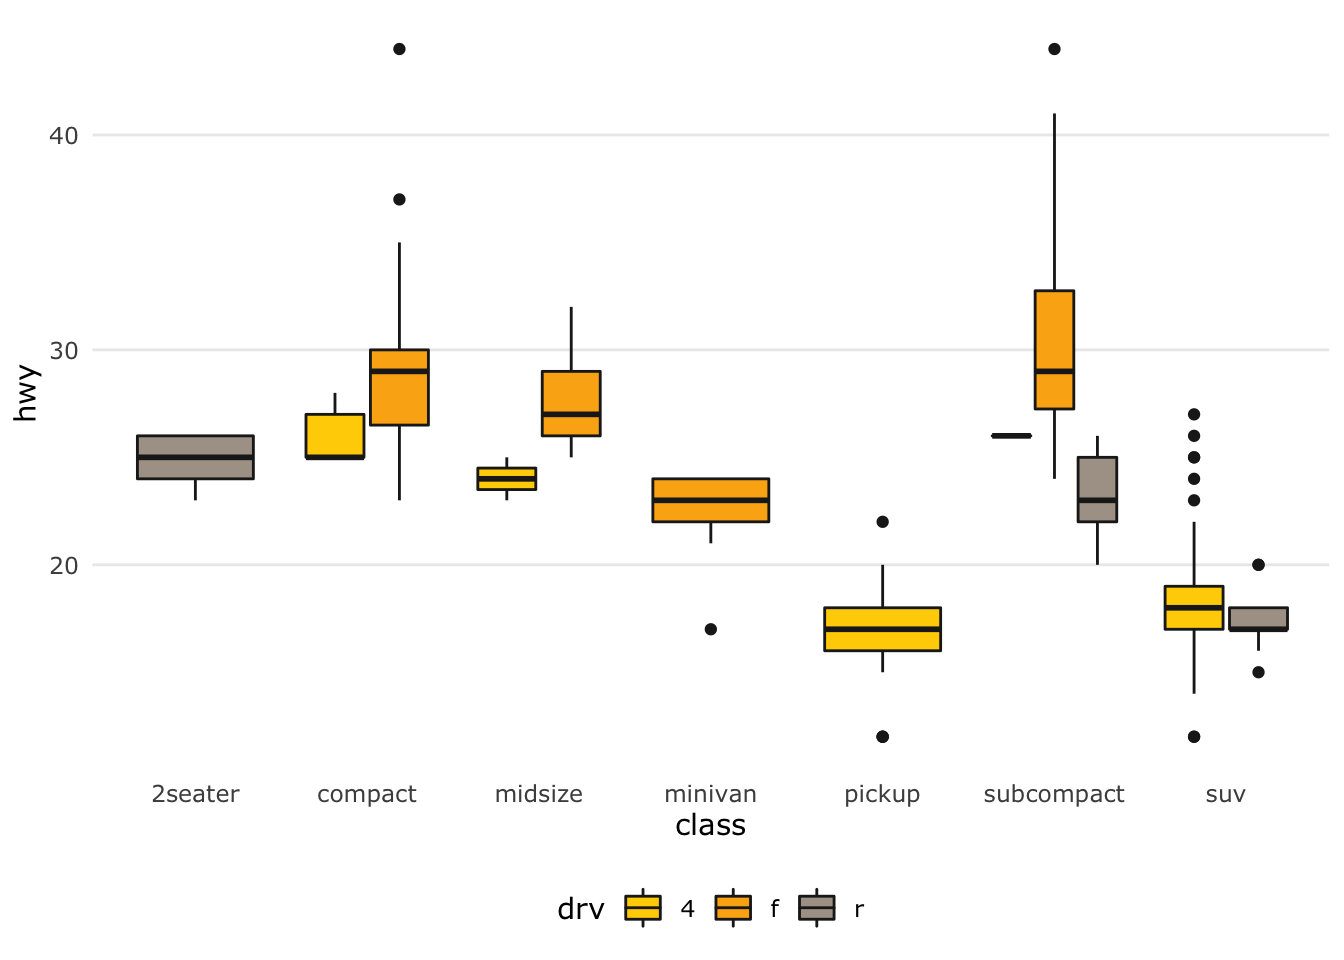
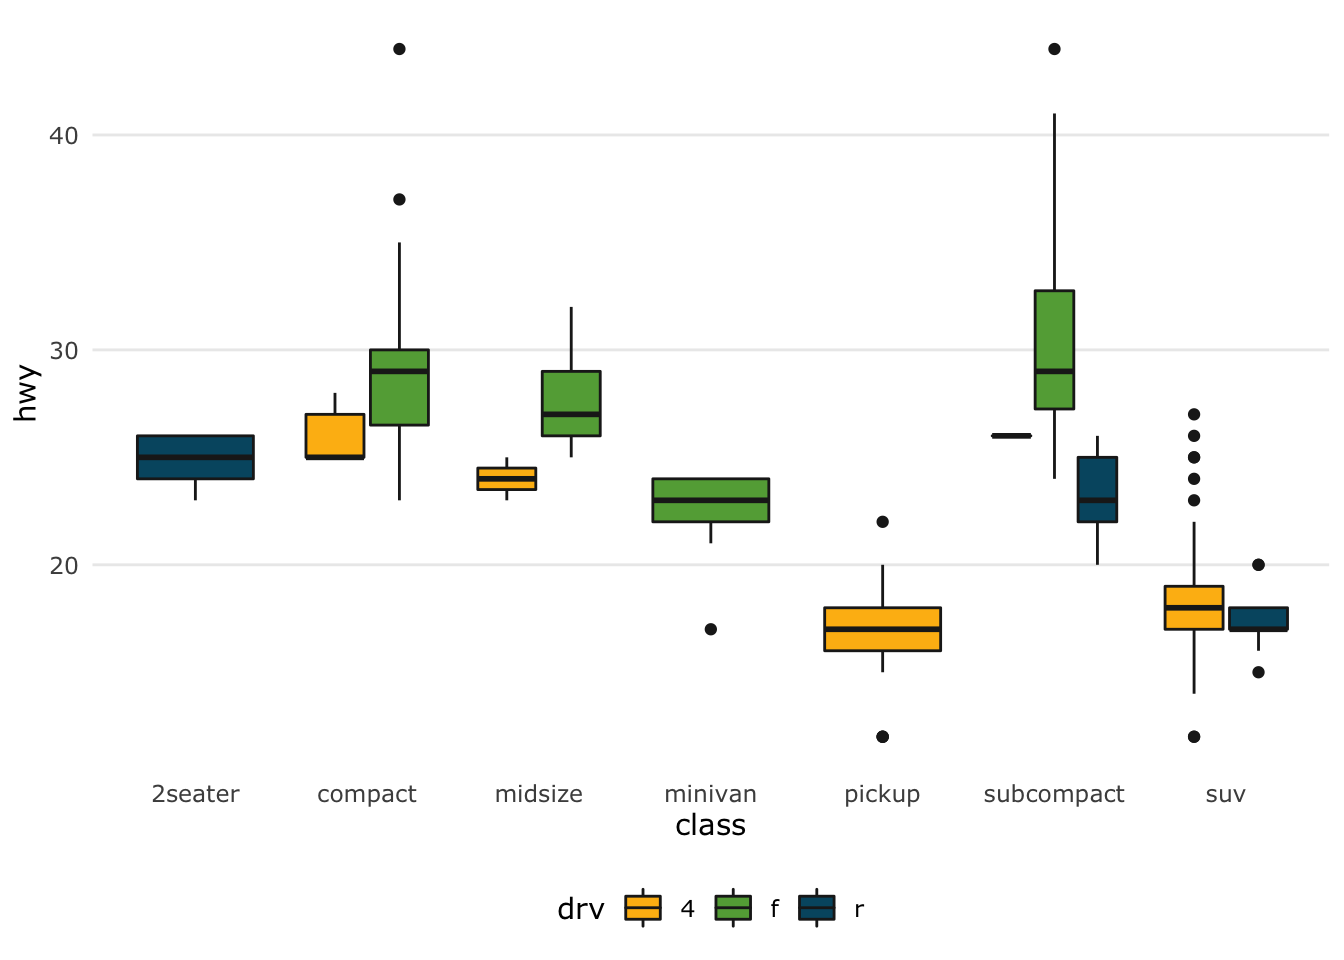
Built site for theme.usq: 1.0.1.9000@fb27342

diff --git a/articles/theme.usq.html b/articles/theme.usq.html
@@ -101,16 +101,20 @@
 <a href="#colours" class="anchor"></a>Colours</h2>
 <p>To view a list of named colours in this package, simply type:</p>
 <div class="sourceCode" id="cb2"><pre class="sourceCode r"><code class="sourceCode r"><span id="cb2-1"><a href="#cb2-1"></a>usq_colours</span>
-<span id="cb2-2"><a href="#cb2-2"></a><span class="co">#&gt;        usq yellow      usq charcoal  secondary yellow  secondary orange </span></span>
-<span id="cb2-3"><a href="#cb2-3"></a><span class="co">#&gt;         "#ffd100"         "#1e1e1e"         "#fdba12"         "#faa61a" </span></span>
-<span id="cb2-4"><a href="#cb2-4"></a><span class="co">#&gt;         cool gray    dark warm gray   light_warm gray    support orange </span></span>
-<span id="cb2-5"><a href="#cb2-5"></a><span class="co">#&gt;         "#76848f"         "#aca095"         "#efe9e5"         "#f58220" </span></span>
-<span id="cb2-6"><a href="#cb2-6"></a><span class="co">#&gt;       support red   support magenta     support green      support blue </span></span>
-<span id="cb2-7"><a href="#cb2-7"></a><span class="co">#&gt;         "#e63e30"         "#b63393"         "#63a945"         "#0090ba" </span></span>
-<span id="cb2-8"><a href="#cb2-8"></a><span class="co">#&gt;      support navy    support purple support turquiose        light grey </span></span>
-<span id="cb2-9"><a href="#cb2-9"></a><span class="co">#&gt;         "#003d77"         "#6a288a"         "#46c1be"         "#f6f6f6" </span></span>
-<span id="cb2-10"><a href="#cb2-10"></a><span class="co">#&gt;       medium grey         dark grey </span></span>
-<span id="cb2-11"><a href="#cb2-11"></a><span class="co">#&gt;         "#e5e5e5"         "#333333"</span></span></code></pre></div>
+<span id="cb2-2"><a href="#cb2-2"></a><span class="co">#&gt;              usq yellow            usq charcoal        secondary yellow </span></span>
+<span id="cb2-3"><a href="#cb2-3"></a><span class="co">#&gt;               "#ffd100"               "#1e1e1e"               "#fdba12" </span></span>
+<span id="cb2-4"><a href="#cb2-4"></a><span class="co">#&gt;        secondary orange               cool gray          dark warm gray </span></span>
+<span id="cb2-5"><a href="#cb2-5"></a><span class="co">#&gt;               "#faa61a"               "#76848f"               "#aca095" </span></span>
+<span id="cb2-6"><a href="#cb2-6"></a><span class="co">#&gt;         light_warm gray          support orange             support red </span></span>
+<span id="cb2-7"><a href="#cb2-7"></a><span class="co">#&gt;               "#efe9e5"               "#f58220"               "#e63e30" </span></span>
+<span id="cb2-8"><a href="#cb2-8"></a><span class="co">#&gt;         support magenta           support green            support blue </span></span>
+<span id="cb2-9"><a href="#cb2-9"></a><span class="co">#&gt;               "#b63393"               "#63a945"               "#0090ba" </span></span>
+<span id="cb2-10"><a href="#cb2-10"></a><span class="co">#&gt;            support navy          support purple       support turquiose </span></span>
+<span id="cb2-11"><a href="#cb2-11"></a><span class="co">#&gt;               "#003d77"               "#6a288a"               "#46c1be" </span></span>
+<span id="cb2-12"><a href="#cb2-12"></a><span class="co">#&gt;              light grey             medium grey               dark grey </span></span>
+<span id="cb2-13"><a href="#cb2-13"></a><span class="co">#&gt;               "#f6f6f6"               "#e5e5e5"               "#333333" </span></span>
+<span id="cb2-14"><a href="#cb2-14"></a><span class="co">#&gt;       unspecified brown unknown deep blue green </span></span>
+<span id="cb2-15"><a href="#cb2-15"></a><span class="co">#&gt;               "#a17401"               "#005670"</span></span></code></pre></div>
 <p>The resulting list shows the hexadecimal colour, e.g. “#ffd100”, and it’s name, “usq yellow”. The names may be used to specify the colours at any time when plotting.</p>
 </div>
 <div id="palettes" class="section level2">
@@ -119,40 +123,42 @@
 <p>Colours are grouped into convenient palettes as well. The palettes may be used when plotting. To see the palettes and colours included in each of them, simply type:</p>
 <div class="sourceCode" id="cb3"><pre class="sourceCode r"><code class="sourceCode r"><span id="cb3-1"><a href="#cb3-1"></a>usq_palettes</span>
 <span id="cb3-2"><a href="#cb3-2"></a><span class="co">#&gt; $primary</span></span>
-<span id="cb3-3"><a href="#cb3-3"></a><span class="co">#&gt;       usq yellow     usq charcoal secondary yellow secondary orange </span></span>
-<span id="cb3-4"><a href="#cb3-4"></a><span class="co">#&gt;        "#ffd100"        "#1e1e1e"        "#fdba12"        "#faa61a" </span></span>
-<span id="cb3-5"><a href="#cb3-5"></a><span class="co">#&gt;        cool gray   dark warm gray </span></span>
-<span id="cb3-6"><a href="#cb3-6"></a><span class="co">#&gt;        "#76848f"        "#aca095" </span></span>
-<span id="cb3-7"><a href="#cb3-7"></a><span class="co">#&gt; </span></span>
-<span id="cb3-8"><a href="#cb3-8"></a><span class="co">#&gt; $`primary dark`</span></span>
-<span id="cb3-9"><a href="#cb3-9"></a><span class="co">#&gt;   usq charcoal      cool gray dark warm gray </span></span>
-<span id="cb3-10"><a href="#cb3-10"></a><span class="co">#&gt;      "#1e1e1e"      "#76848f"      "#aca095" </span></span>
-<span id="cb3-11"><a href="#cb3-11"></a><span class="co">#&gt; </span></span>
-<span id="cb3-12"><a href="#cb3-12"></a><span class="co">#&gt; $`primary light`</span></span>
-<span id="cb3-13"><a href="#cb3-13"></a><span class="co">#&gt;       usq yellow secondary yellow secondary orange </span></span>
-<span id="cb3-14"><a href="#cb3-14"></a><span class="co">#&gt;        "#ffd100"        "#fdba12"        "#faa61a" </span></span>
-<span id="cb3-15"><a href="#cb3-15"></a><span class="co">#&gt; </span></span>
-<span id="cb3-16"><a href="#cb3-16"></a><span class="co">#&gt; $cool</span></span>
-<span id="cb3-17"><a href="#cb3-17"></a><span class="co">#&gt;      support navy      support blue support turquiose </span></span>
-<span id="cb3-18"><a href="#cb3-18"></a><span class="co">#&gt;         "#003d77"         "#0090ba"         "#46c1be" </span></span>
-<span id="cb3-19"><a href="#cb3-19"></a><span class="co">#&gt; </span></span>
-<span id="cb3-20"><a href="#cb3-20"></a><span class="co">#&gt; $warm</span></span>
-<span id="cb3-21"><a href="#cb3-21"></a><span class="co">#&gt;      support red   support orange secondary orange secondary yellow </span></span>
-<span id="cb3-22"><a href="#cb3-22"></a><span class="co">#&gt;        "#e63e30"        "#f58220"        "#faa61a"        "#fdba12" </span></span>
-<span id="cb3-23"><a href="#cb3-23"></a><span class="co">#&gt;       usq yellow </span></span>
-<span id="cb3-24"><a href="#cb3-24"></a><span class="co">#&gt;        "#ffd100" </span></span>
-<span id="cb3-25"><a href="#cb3-25"></a><span class="co">#&gt; </span></span>
-<span id="cb3-26"><a href="#cb3-26"></a><span class="co">#&gt; $bright</span></span>
-<span id="cb3-27"><a href="#cb3-27"></a><span class="co">#&gt;      support navy      support blue support turquiose     support green </span></span>
-<span id="cb3-28"><a href="#cb3-28"></a><span class="co">#&gt;         "#003d77"         "#0090ba"         "#46c1be"         "#63a945" </span></span>
-<span id="cb3-29"><a href="#cb3-29"></a><span class="co">#&gt;        usq yellow  secondary yellow  secondary orange    support orange </span></span>
-<span id="cb3-30"><a href="#cb3-30"></a><span class="co">#&gt;         "#ffd100"         "#fdba12"         "#faa61a"         "#f58220" </span></span>
-<span id="cb3-31"><a href="#cb3-31"></a><span class="co">#&gt;       support red   support magenta    support purple </span></span>
-<span id="cb3-32"><a href="#cb3-32"></a><span class="co">#&gt;         "#e63e30"         "#b63393"         "#6a288a" </span></span>
-<span id="cb3-33"><a href="#cb3-33"></a><span class="co">#&gt; </span></span>
-<span id="cb3-34"><a href="#cb3-34"></a><span class="co">#&gt; $digital</span></span>
-<span id="cb3-35"><a href="#cb3-35"></a><span class="co">#&gt;  light grey medium grey   dark grey </span></span>
-<span id="cb3-36"><a href="#cb3-36"></a><span class="co">#&gt;   "#f6f6f6"   "#e5e5e5"   "#333333"</span></span></code></pre></div>
+<span id="cb3-3"><a href="#cb3-3"></a><span class="co">#&gt;        secondary yellow         support magenta       support turquiose </span></span>
+<span id="cb3-4"><a href="#cb3-4"></a><span class="co">#&gt;               "#fdba12"               "#b63393"               "#46c1be" </span></span>
+<span id="cb3-5"><a href="#cb3-5"></a><span class="co">#&gt;             support red           support green            support navy </span></span>
+<span id="cb3-6"><a href="#cb3-6"></a><span class="co">#&gt;               "#e63e30"               "#63a945"               "#003d77" </span></span>
+<span id="cb3-7"><a href="#cb3-7"></a><span class="co">#&gt;       unspecified brown          support purple unknown deep blue green </span></span>
+<span id="cb3-8"><a href="#cb3-8"></a><span class="co">#&gt;               "#a17401"               "#6a288a"               "#005670" </span></span>
+<span id="cb3-9"><a href="#cb3-9"></a><span class="co">#&gt; </span></span>
+<span id="cb3-10"><a href="#cb3-10"></a><span class="co">#&gt; $`primary dark`</span></span>
+<span id="cb3-11"><a href="#cb3-11"></a><span class="co">#&gt;   usq charcoal      cool gray dark warm gray </span></span>
+<span id="cb3-12"><a href="#cb3-12"></a><span class="co">#&gt;      "#1e1e1e"      "#76848f"      "#aca095" </span></span>
+<span id="cb3-13"><a href="#cb3-13"></a><span class="co">#&gt; </span></span>
+<span id="cb3-14"><a href="#cb3-14"></a><span class="co">#&gt; $`primary light`</span></span>
+<span id="cb3-15"><a href="#cb3-15"></a><span class="co">#&gt;       usq yellow secondary yellow secondary orange </span></span>
+<span id="cb3-16"><a href="#cb3-16"></a><span class="co">#&gt;        "#ffd100"        "#fdba12"        "#faa61a" </span></span>
+<span id="cb3-17"><a href="#cb3-17"></a><span class="co">#&gt; </span></span>
+<span id="cb3-18"><a href="#cb3-18"></a><span class="co">#&gt; $cool</span></span>
+<span id="cb3-19"><a href="#cb3-19"></a><span class="co">#&gt;      support navy      support blue support turquiose </span></span>
+<span id="cb3-20"><a href="#cb3-20"></a><span class="co">#&gt;         "#003d77"         "#0090ba"         "#46c1be" </span></span>
+<span id="cb3-21"><a href="#cb3-21"></a><span class="co">#&gt; </span></span>
+<span id="cb3-22"><a href="#cb3-22"></a><span class="co">#&gt; $warm</span></span>
+<span id="cb3-23"><a href="#cb3-23"></a><span class="co">#&gt;      support red   support orange secondary orange secondary yellow </span></span>
+<span id="cb3-24"><a href="#cb3-24"></a><span class="co">#&gt;        "#e63e30"        "#f58220"        "#faa61a"        "#fdba12" </span></span>
+<span id="cb3-25"><a href="#cb3-25"></a><span class="co">#&gt;       usq yellow </span></span>
+<span id="cb3-26"><a href="#cb3-26"></a><span class="co">#&gt;        "#ffd100" </span></span>
+<span id="cb3-27"><a href="#cb3-27"></a><span class="co">#&gt; </span></span>
+<span id="cb3-28"><a href="#cb3-28"></a><span class="co">#&gt; $bright</span></span>
+<span id="cb3-29"><a href="#cb3-29"></a><span class="co">#&gt;      support navy      support blue support turquiose     support green </span></span>
+<span id="cb3-30"><a href="#cb3-30"></a><span class="co">#&gt;         "#003d77"         "#0090ba"         "#46c1be"         "#63a945" </span></span>
+<span id="cb3-31"><a href="#cb3-31"></a><span class="co">#&gt;        usq yellow  secondary yellow  secondary orange    support orange </span></span>
+<span id="cb3-32"><a href="#cb3-32"></a><span class="co">#&gt;         "#ffd100"         "#fdba12"         "#faa61a"         "#f58220" </span></span>
+<span id="cb3-33"><a href="#cb3-33"></a><span class="co">#&gt;       support red   support magenta    support purple </span></span>
+<span id="cb3-34"><a href="#cb3-34"></a><span class="co">#&gt;         "#e63e30"         "#b63393"         "#6a288a" </span></span>
+<span id="cb3-35"><a href="#cb3-35"></a><span class="co">#&gt; </span></span>
+<span id="cb3-36"><a href="#cb3-36"></a><span class="co">#&gt; $digital</span></span>
+<span id="cb3-37"><a href="#cb3-37"></a><span class="co">#&gt;  light grey medium grey   dark grey </span></span>
+<span id="cb3-38"><a href="#cb3-38"></a><span class="co">#&gt;   "#f6f6f6"   "#e5e5e5"   "#333333"</span></span></code></pre></div>
 </div>
 <div id="examples" class="section level2">
 <h2 class="hasAnchor">

diff --git a/reference/plot_usq.html b/reference/plot_usq.html
@@ -121,8 +121,18 @@ guidelines that uses (hopefully) sensible defaults." />
 guidelines that uses (hopefully) sensible defaults.</p>
     </div>
 
-    <pre class="usage"><span class='fu'>plot_usq</span>(<span class='no'>x</span>, <span class='kw'>y</span> <span class='kw'>=</span> <span class='kw'>NULL</span>, <span class='kw'>main</span> <span class='kw'>=</span> <span class='st'>""</span>, <span class='kw'>sub</span> <span class='kw'>=</span> <span class='st'>""</span>, <span class='kw'>xlab</span> <span class='kw'>=</span> <span class='st'>""</span>, <span class='kw'>ylab</span> <span class='kw'>=</span> <span class='st'>""</span>,
-  <span class='kw'>xlim</span> <span class='kw'>=</span> <span class='kw'>NULL</span>, <span class='kw'>ylim</span> <span class='kw'>=</span> <span class='kw'>NULL</span>, <span class='kw'>col</span> <span class='kw'>=</span> <span class='st'>"usq charcoal"</span>, <span class='no'>...</span>)</pre>
+    <pre class="usage"><span class='fu'>plot_usq</span>(
+  <span class='no'>x</span>,
+  <span class='kw'>y</span> <span class='kw'>=</span> <span class='kw'>NULL</span>,
+  <span class='kw'>main</span> <span class='kw'>=</span> <span class='st'>""</span>,
+  <span class='kw'>sub</span> <span class='kw'>=</span> <span class='st'>""</span>,
+  <span class='kw'>xlab</span> <span class='kw'>=</span> <span class='st'>""</span>,
+  <span class='kw'>ylab</span> <span class='kw'>=</span> <span class='st'>""</span>,
+  <span class='kw'>xlim</span> <span class='kw'>=</span> <span class='kw'>NULL</span>,
+  <span class='kw'>ylim</span> <span class='kw'>=</span> <span class='kw'>NULL</span>,
+  <span class='kw'>col</span> <span class='kw'>=</span> <span class='st'>"usq charcoal"</span>,
+  <span class='no'>...</span>
+)</pre>
 
     <h2 class="hasAnchor" id="arguments"><a class="anchor" href="#arguments"></a>Arguments</h2>
     <table class="ref-arguments">

diff --git a/reference/hist_usq.html b/reference/hist_usq.html
@@ -121,8 +121,16 @@ guidelines that uses (hopefully) sensible defaults." />
 guidelines that uses (hopefully) sensible defaults.</p>
     </div>
 
-    <pre class="usage"><span class='fu'>hist_usq</span>(<span class='no'>x</span>, <span class='kw'>main</span> <span class='kw'>=</span> <span class='st'>""</span>, <span class='kw'>sub</span> <span class='kw'>=</span> <span class='st'>""</span>, <span class='kw'>xlab</span> <span class='kw'>=</span> <span class='st'>""</span>, <span class='kw'>ylab</span> <span class='kw'>=</span> <span class='st'>"Count"</span>,
-  <span class='kw'>breaks</span> <span class='kw'>=</span> <span class='st'>"pretty"</span>, <span class='kw'>col</span> <span class='kw'>=</span> <span class='st'>"usq charcoal"</span>, <span class='no'>...</span>)</pre>
+    <pre class="usage"><span class='fu'>hist_usq</span>(
+  <span class='no'>x</span>,
+  <span class='kw'>main</span> <span class='kw'>=</span> <span class='st'>""</span>,
+  <span class='kw'>sub</span> <span class='kw'>=</span> <span class='st'>""</span>,
+  <span class='kw'>xlab</span> <span class='kw'>=</span> <span class='st'>""</span>,
+  <span class='kw'>ylab</span> <span class='kw'>=</span> <span class='st'>"Count"</span>,
+  <span class='kw'>breaks</span> <span class='kw'>=</span> <span class='st'>"pretty"</span>,
+  <span class='kw'>col</span> <span class='kw'>=</span> <span class='st'>"usq charcoal"</span>,
+  <span class='no'>...</span>
+)</pre>
 
     <h2 class="hasAnchor" id="arguments"><a class="anchor" href="#arguments"></a>Arguments</h2>
     <table class="ref-arguments">

diff --git a/reference/boxplot_usq.html b/reference/boxplot_usq.html
@@ -121,8 +121,15 @@ guidelines that uses (hopefully) sensible defaults." />
 guidelines that uses (hopefully) sensible defaults.</p>
     </div>
 
-    <pre class="usage"><span class='fu'>boxplot_usq</span>(<span class='no'>x</span>, <span class='kw'>main</span> <span class='kw'>=</span> <span class='st'>""</span>, <span class='kw'>sub</span> <span class='kw'>=</span> <span class='st'>""</span>, <span class='kw'>xlab</span> <span class='kw'>=</span> <span class='st'>""</span>, <span class='kw'>ylab</span> <span class='kw'>=</span> <span class='st'>""</span>,
-  <span class='kw'>col</span> <span class='kw'>=</span> <span class='st'>"usq charcoal"</span>, <span class='no'>...</span>)</pre>
+    <pre class="usage"><span class='fu'>boxplot_usq</span>(
+  <span class='no'>x</span>,
+  <span class='kw'>main</span> <span class='kw'>=</span> <span class='st'>""</span>,
+  <span class='kw'>sub</span> <span class='kw'>=</span> <span class='st'>""</span>,
+  <span class='kw'>xlab</span> <span class='kw'>=</span> <span class='st'>""</span>,
+  <span class='kw'>ylab</span> <span class='kw'>=</span> <span class='st'>""</span>,
+  <span class='kw'>col</span> <span class='kw'>=</span> <span class='st'>"usq charcoal"</span>,
+  <span class='no'>...</span>
+)</pre>
 
     <h2 class="hasAnchor" id="arguments"><a class="anchor" href="#arguments"></a>Arguments</h2>
     <table class="ref-arguments">

diff --git a/reference/usq_palettes.html b/reference/usq_palettes.html
@@ -129,10 +129,12 @@ colour palette for use in plotting.</p>
 
     <h2 class="hasAnchor" id="examples"><a class="anchor" href="#examples"></a>Examples</h2>
     <pre class="examples"><div class='input'><span class='no'>usq_palettes</span></div><div class='output co'>#&gt; $primary
-#&gt;       usq yellow     usq charcoal secondary yellow secondary orange 
-#&gt;        "#ffd100"        "#1e1e1e"        "#fdba12"        "#faa61a" 
-#&gt;        cool gray   dark warm gray 
-#&gt;        "#76848f"        "#aca095" 
+#&gt;        secondary yellow         support magenta       support turquiose 
+#&gt;               "#fdba12"               "#b63393"               "#46c1be" 
+#&gt;             support red           support green            support navy 
+#&gt;               "#e63e30"               "#63a945"               "#003d77" 
+#&gt;       unspecified brown          support purple unknown deep blue green 
+#&gt;               "#a17401"               "#6a288a"               "#005670" 
 #&gt; 
 #&gt; $`primary dark`
 #&gt;   usq charcoal      cool gray dark warm gray 

diff --git a/reference/scale_colour_usq.html b/reference/scale_colour_usq.html
@@ -119,8 +119,7 @@
     <p>ggplot2 Colour Scale Constructor for USQ Colours</p>
     </div>
 
-    <pre class="usage"><span class='fu'>scale_colour_usq</span>(<span class='kw'>palette</span> <span class='kw'>=</span> <span class='st'>"primary"</span>, <span class='kw'>discrete</span> <span class='kw'>=</span> <span class='fl'>TRUE</span>,
-  <span class='kw'>reverse</span> <span class='kw'>=</span> <span class='fl'>FALSE</span>, <span class='no'>...</span>)</pre>
+    <pre class="usage"><span class='fu'>scale_colour_usq</span>(<span class='kw'>palette</span> <span class='kw'>=</span> <span class='st'>"primary"</span>, <span class='kw'>discrete</span> <span class='kw'>=</span> <span class='fl'>TRUE</span>, <span class='kw'>reverse</span> <span class='kw'>=</span> <span class='fl'>FALSE</span>, <span class='no'>...</span>)</pre>
 
     <h2 class="hasAnchor" id="arguments"><a class="anchor" href="#arguments"></a>Arguments</h2>
     <table class="ref-arguments">

diff --git a/reference/scale_fill_usq.html b/reference/scale_fill_usq.html
@@ -119,8 +119,7 @@
     <p>ggplot2 Fill Scale Constructor for USQ Colours</p>
     </div>
 
-    <pre class="usage"><span class='fu'>scale_fill_usq</span>(<span class='kw'>palette</span> <span class='kw'>=</span> <span class='st'>"primary"</span>, <span class='kw'>discrete</span> <span class='kw'>=</span> <span class='fl'>TRUE</span>, <span class='kw'>reverse</span> <span class='kw'>=</span> <span class='fl'>FALSE</span>,
-  <span class='no'>...</span>)</pre>
+    <pre class="usage"><span class='fu'>scale_fill_usq</span>(<span class='kw'>palette</span> <span class='kw'>=</span> <span class='st'>"primary"</span>, <span class='kw'>discrete</span> <span class='kw'>=</span> <span class='fl'>TRUE</span>, <span class='kw'>reverse</span> <span class='kw'>=</span> <span class='fl'>FALSE</span>, <span class='no'>...</span>)</pre>
 
     <h2 class="hasAnchor" id="arguments"><a class="anchor" href="#arguments"></a>Arguments</h2>
     <table class="ref-arguments">

diff --git a/reference/theme.usq-package.html b/reference/theme.usq-package.html
@@ -36,7 +36,6 @@
 
 
 <meta property="og:title" content="Provides USQ Style Typography, Colours and Themes for Plots from R — theme.usq-package" />
-<meta property="og:description" content="Provides USQ Style Typography, Colours and Themes for Plots from R" />
 
 
 
@@ -116,7 +115,6 @@
     </div>
 
     <div class="ref-description">
-    <p>Provides USQ Style Typography, Colours and Themes for Plots from R</p>
     </div>
 
 
